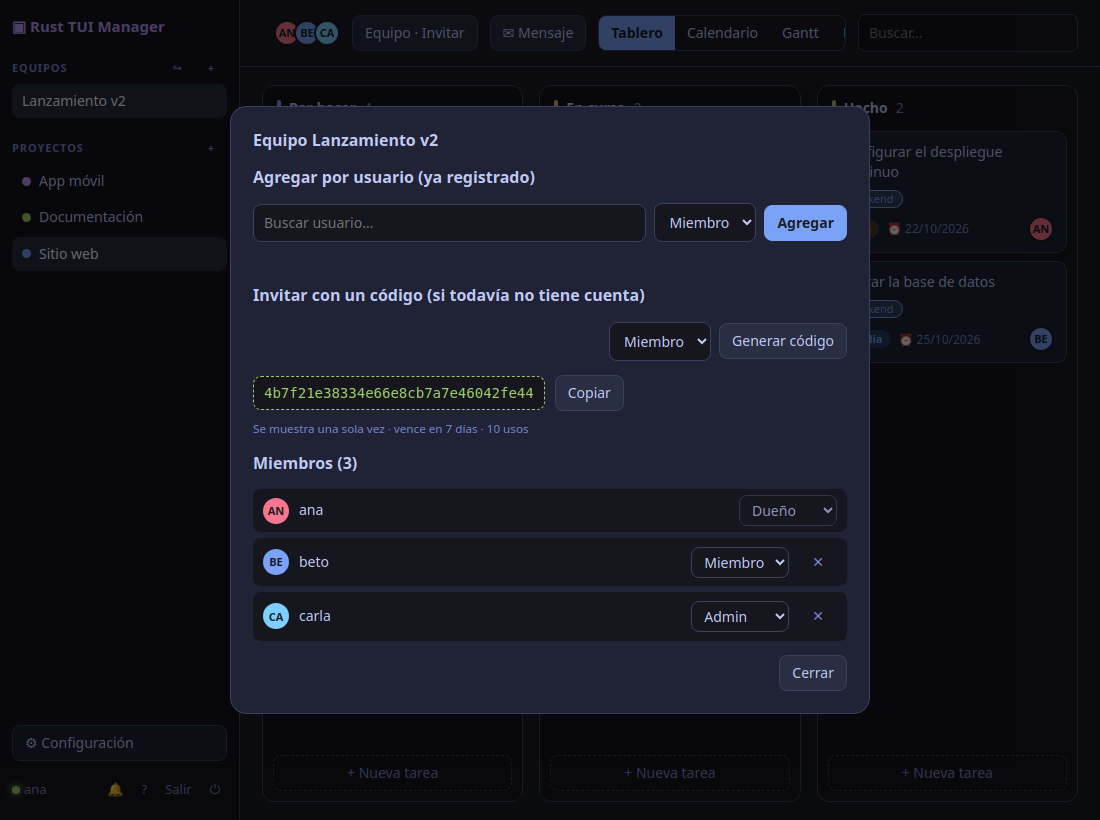
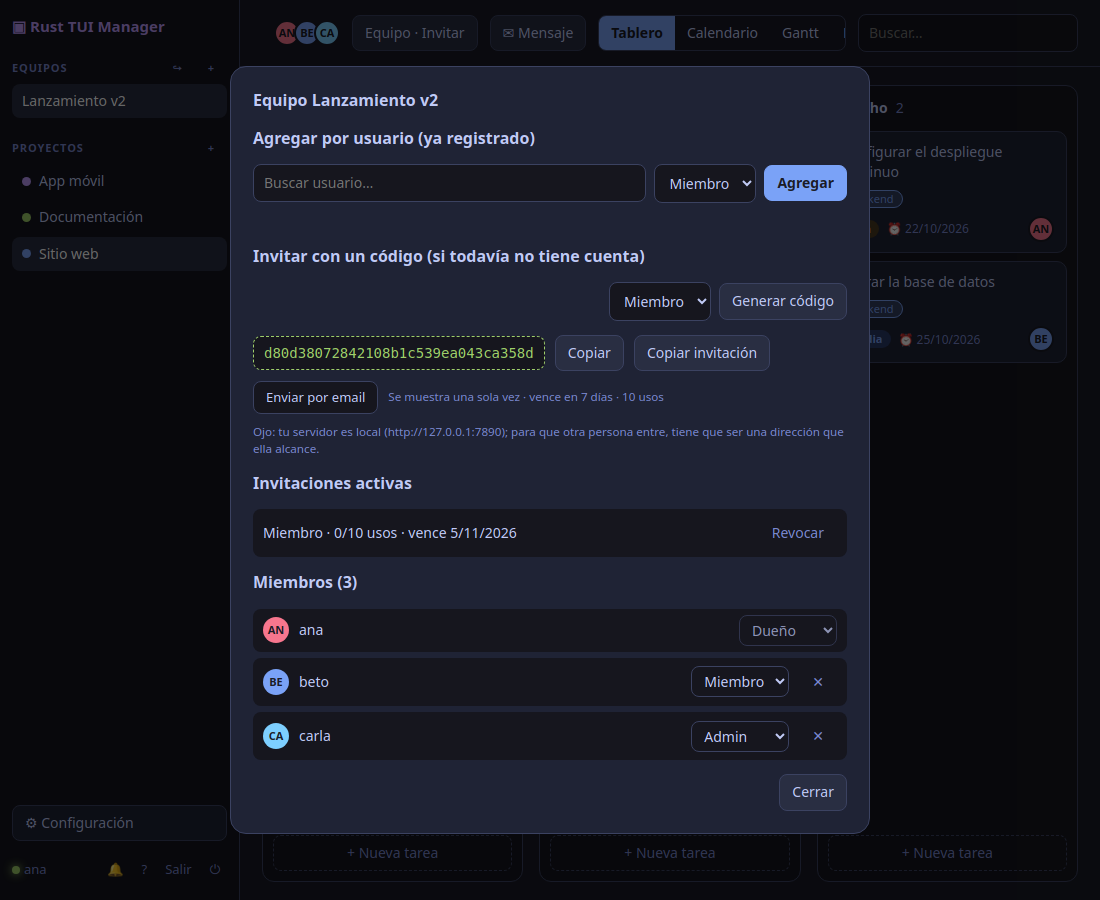
Corrige la versión de chrono; capturas y novedades de la 0.5.0 en los README

diff --git a/crates/server/README.md b/crates/server/README.md
@@ -24,6 +24,26 @@ Clientes: la TUI, la app gráfica de escritorio y la **web que este mismo servid
   </tr>
 </table>
 
+## Novedades de la 0.5.0
+
+<table>
+  <tr>
+    <td><img src="https://raw.githubusercontent.com/polblancoo/tui_comandNote/main/docs/screenshots/web-google.png" alt="Configuración con Google Calendar conectado y un «?» de ayuda en cada fila"></td>
+    <td><img src="https://raw.githubusercontent.com/polblancoo/tui_comandNote/main/docs/screenshots/web-google-help.png" alt="Ayuda de Google Calendar: qué hace y qué configura quien administra el servidor"></td>
+  </tr>
+  <tr>
+    <td><img src="https://raw.githubusercontent.com/polblancoo/tui_comandNote/main/docs/screenshots/web-config-help.png" alt="Ayuda de una fila: «Si sos usuario» y «Si administrás el servidor»"></td>
+    <td><img src="https://raw.githubusercontent.com/polblancoo/tui_comandNote/main/docs/screenshots/web-invite.png" alt="Código de invitación con «Copiar invitación» y «Enviar por email»"></td>
+  </tr>
+</table>
+
+- **Google Calendar** (opcional, un solo sentido): cada usuario conecta su cuenta desde *Configuración → Google Calendar* y sus tareas con fecha (asignadas a él o sin responsable, de sus equipos) aparecen como eventos de día completo en su calendario principal. Si cambian, se terminan o se borran, el evento se actualiza o se quita solo (cada minuto); «Desconectar» limpia lo que creó la app. Lo habilita **una sola vez quien administra el servidor** con `TM_GOOGLE_CLIENT_ID`, `TM_GOOGLE_CLIENT_SECRET` y `TM_GOOGLE_REDIRECT` (cliente OAuth «Aplicación web» de Google Cloud); mientras la app de Google esté en modo *Pruebas* solo entran los Gmail agregados como usuarios de prueba.
+- **Ayuda en cada parámetro de Configuración**: un botón «?» por fila explica qué hace para el usuario común y qué hay que tener configurado si administrás el servidor (SMTP, Telegram, Google, HTTPS…).
+- **Invitaciones listas para compartir**: al generar un código, *Copiar invitación* arma un texto con el enlace de instalación, la dirección del servidor, los pasos y el código, y *Enviar por email* lo abre en tu cliente de correo.
+- **Búsqueda de usuarios más clara**: los resultados se ven como botones (funciona también en la app de escritorio) y se busca por coincidencia en cualquier parte del nombre.
+- **Equipo más ordenado**: arriba agregar e invitar, y la lista de miembros al final.
+- La ventana de novedades ya no reaparece en cada inicio si no hay nada sin leer.
+
 ## Uso
 
 ```sh
